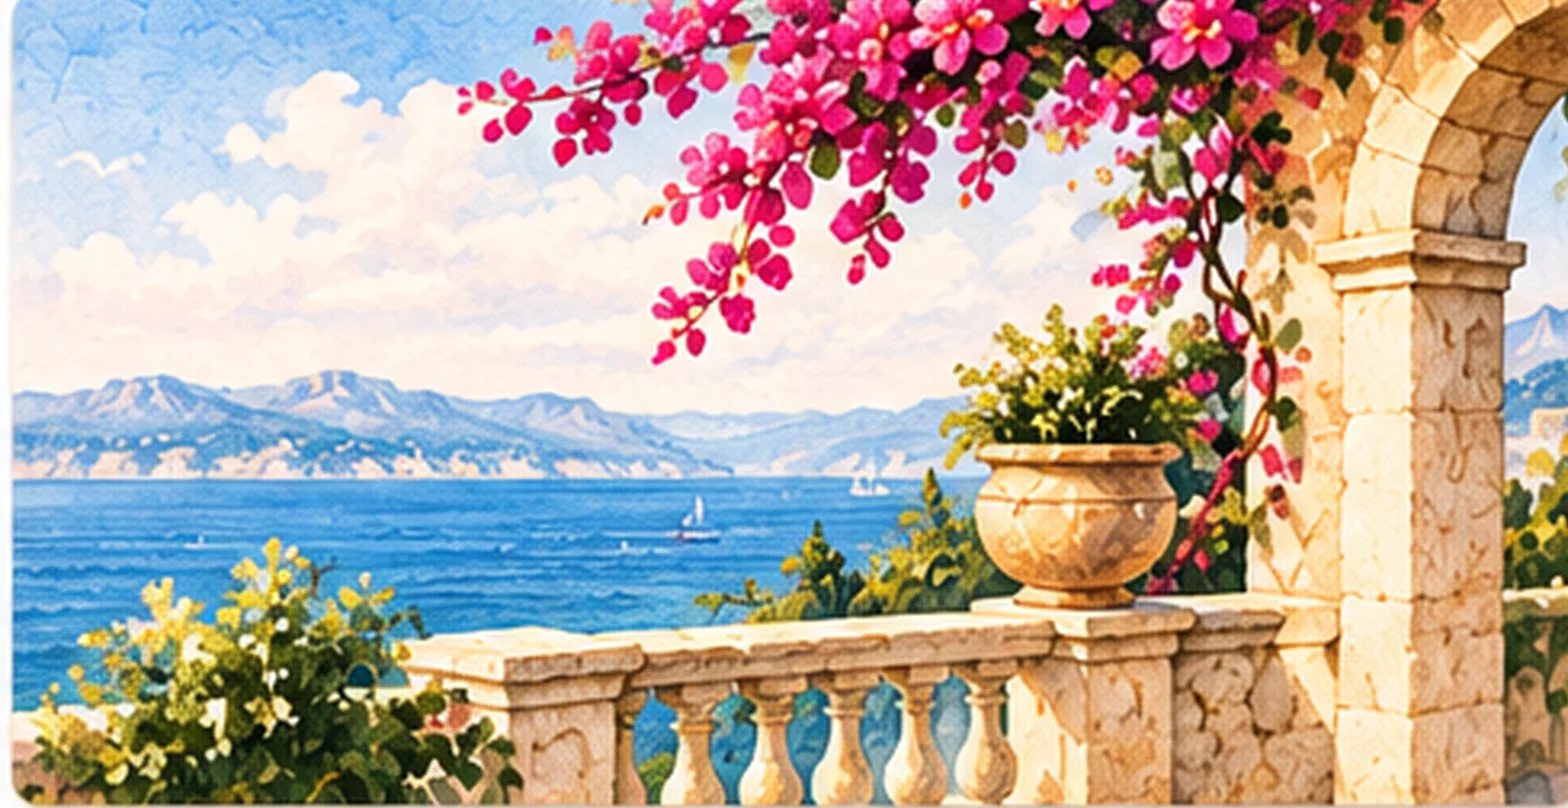
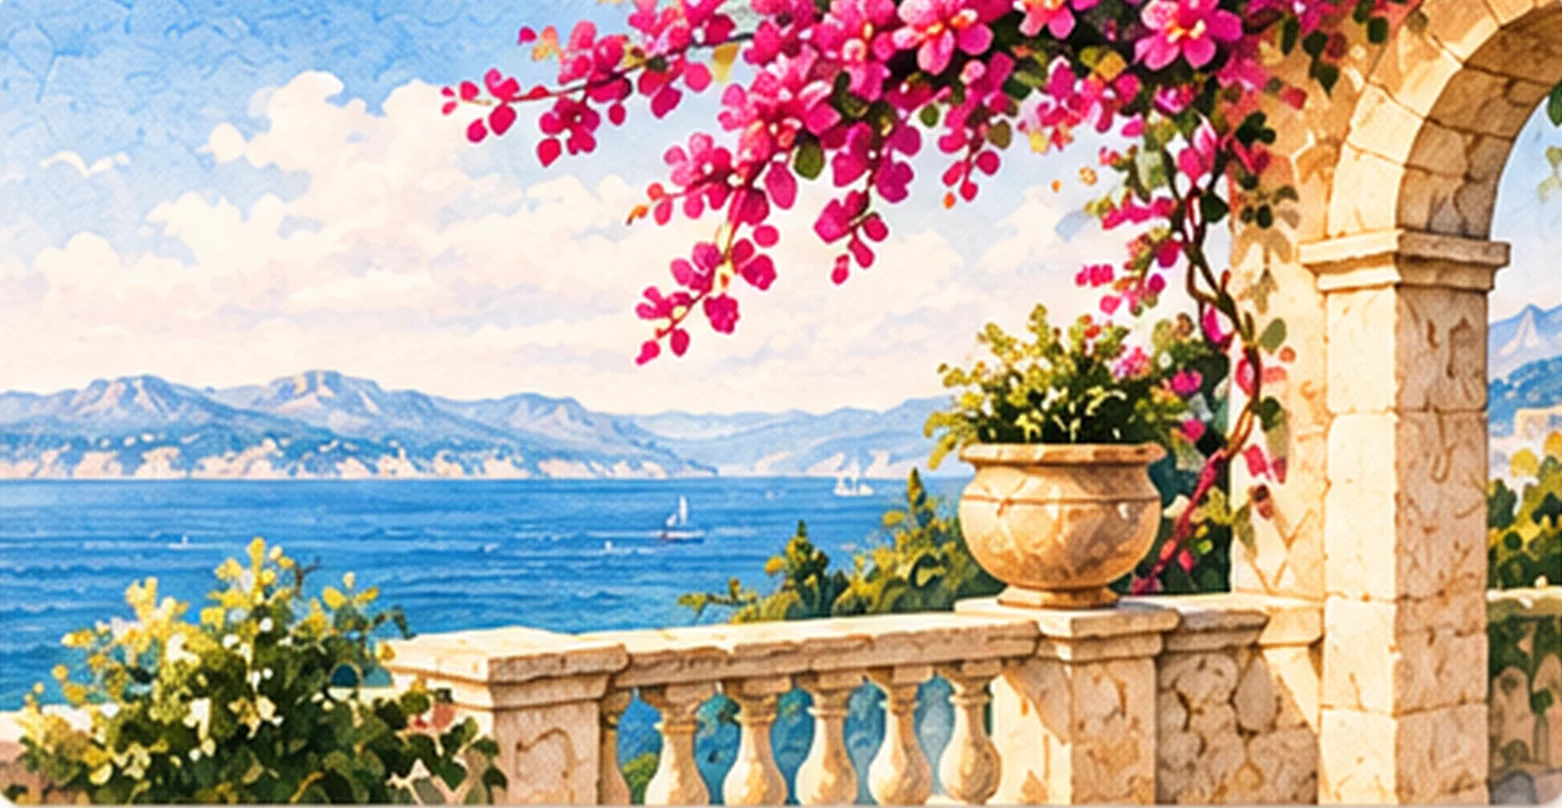
French Riviera site: trim the painting's white left edge
Claude-Session: https://claude.ai/code/session_01VSxtNjXHZv2mNuuYnRFjyN

diff --git a/src/components/site-scene.tsx b/src/components/site-scene.tsx
@@ -843,7 +843,7 @@ const PAINTED_BANDS: Partial<Record<SceneId, ReactNode>> = {
       src={`${BATCH_A}/fr-panorama.webp`}
       alt=""
       aria-hidden="true"
-      width={1568}
+      width={1562}
       height={808}
       className={`${painted} site-scene block h-[clamp(240px,32vw,500px)] w-full object-cover object-[60%_70%]`}
     />
